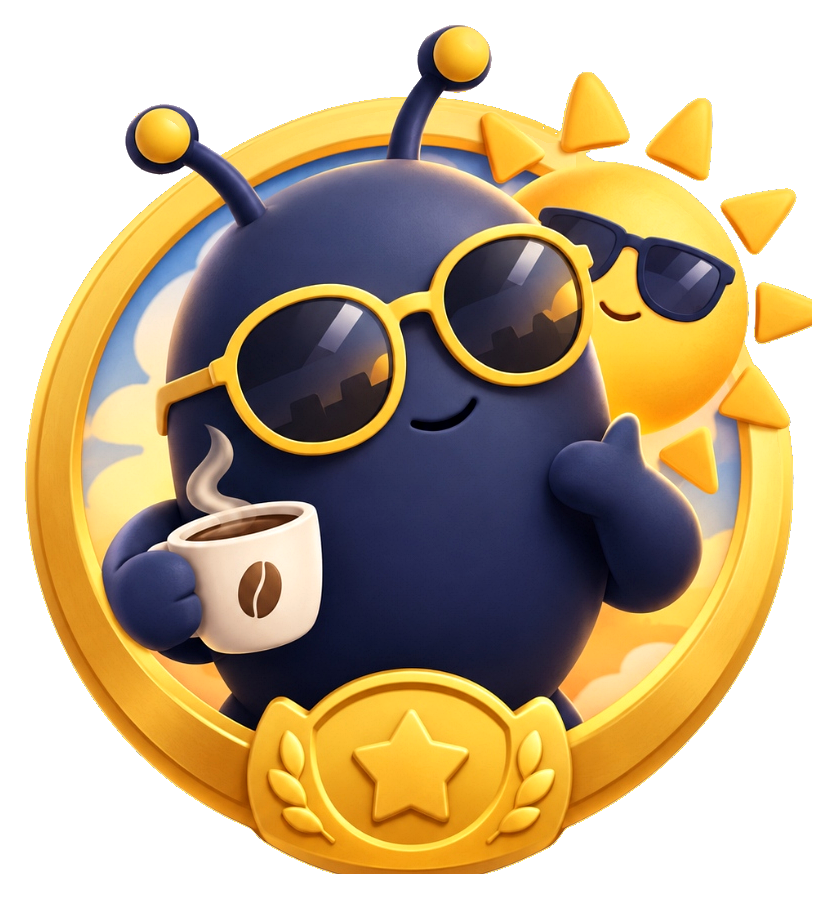
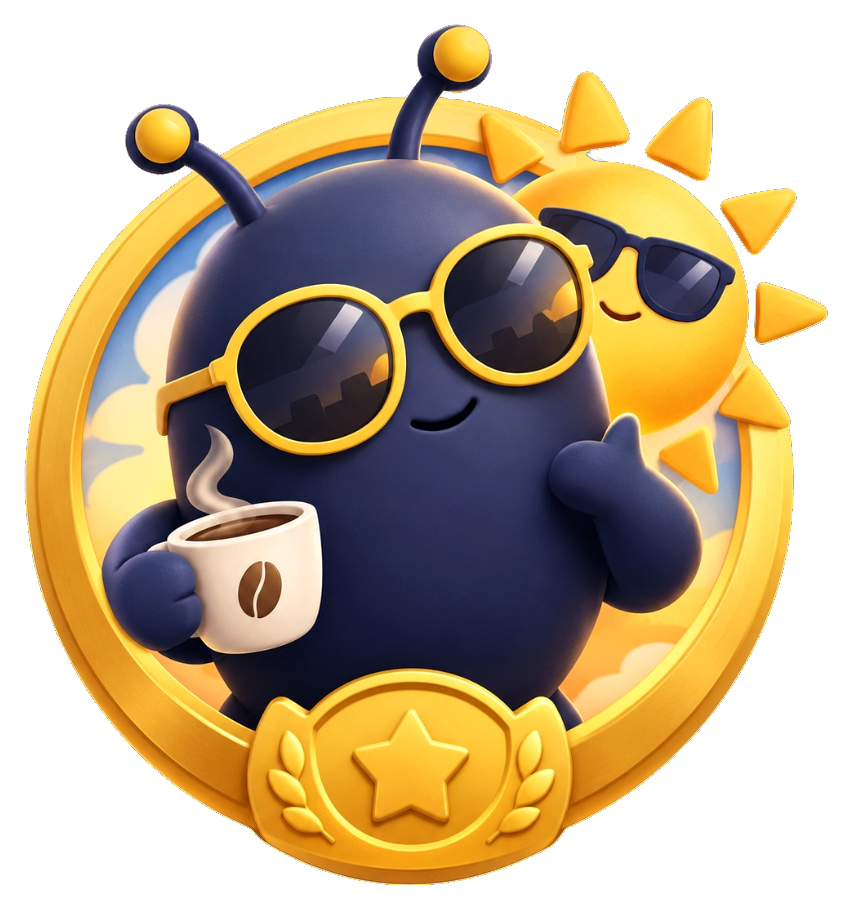
Fix Early Bird bottom clipping and prevent badge overlap on mobile

diff --git a/src/components/profile/ProfileHonors.tsx b/src/components/profile/ProfileHonors.tsx
@@ -57,10 +57,10 @@ export function ProfileHonors({
   } | null>(null);
 
   const customBadgeImages: Record<string, string> = {
-    early_bird: "/badges/early-bird.png?v=4",
-    night_owl: "/badges/night-owl.png?v=4",
-    sniper_coder: "/badges/sniper-coder.png?v=4",
-    speed_demon: "/badges/speed-demon.png?v=4",
+    early_bird: "/badges/early-bird.png?v=5",
+    night_owl: "/badges/night-owl.png?v=5",
+    sniper_coder: "/badges/sniper-coder.png?v=5",
+    speed_demon: "/badges/speed-demon.png?v=5",
   };
 
   const specialBadges: SpecialBadgeItem[] = [
@@ -78,7 +78,7 @@ export function ProfileHonors({
       accentBg: "from-amber-500/20 to-orange-500/10",
       iconSvg: (isUnlocked, size = 44) => (
         <img
-          src="/badges/early-bird.png?v=4"
+          src="/badges/early-bird.png?v=5"
           alt="Early Bird"
           style={{ width: size, height: size }}
           className={`object-contain transition-all ${isUnlocked ? "" : "grayscale opacity-50"}`}
@@ -99,7 +99,7 @@ export function ProfileHonors({
       accentBg: "from-purple-500/20 to-indigo-500/10",
       iconSvg: (isUnlocked, size = 44) => (
         <img
-          src="/badges/night-owl.png?v=4"
+          src="/badges/night-owl.png?v=5"
           alt="Night Owl"
           style={{ width: size, height: size }}
           className={`object-contain transition-all ${isUnlocked ? "" : "grayscale opacity-50"}`}
@@ -120,7 +120,7 @@ export function ProfileHonors({
       accentBg: "from-rose-500/20 to-red-500/10",
       iconSvg: (isUnlocked, size = 44) => (
         <img
-          src="/badges/sniper-coder.png?v=4"
+          src="/badges/sniper-coder.png?v=5"
           alt="Sniper Coder"
           style={{ width: size, height: size }}
           className={`object-contain transition-all ${isUnlocked ? "" : "grayscale opacity-50"}`}
@@ -141,7 +141,7 @@ export function ProfileHonors({
       accentBg: "from-cyan-500/20 to-blue-500/10",
       iconSvg: (isUnlocked, size = 44) => (
         <img
-          src="/badges/speed-demon.png?v=4"
+          src="/badges/speed-demon.png?v=5"
           alt="Speed Demon"
           style={{ width: size, height: size }}
           className={`object-contain transition-all ${isUnlocked ? "" : "grayscale opacity-50"}`}
@@ -370,7 +370,7 @@ export function ProfileHonors({
           </button>
         </div>
 
-        <div className="grid grid-cols-4 gap-3 sm:gap-5 items-center justify-items-center py-1">
+        <div className="grid grid-cols-4 gap-2 sm:gap-4 md:gap-5 items-center justify-items-center py-1">
           {previewBadges.map((badge) => {
             const isUnlocked = badge.current >= badge.target;
             const customImg = customBadgeImages[badge.id];
@@ -381,14 +381,14 @@ export function ProfileHonors({
                   soundEffects.playSoftClick();
                   setSelectedHonor({ type: "badge", item: badge });
                 }}
-                className="flex flex-col items-center justify-center cursor-pointer group"
+                className="flex flex-col items-center justify-center cursor-pointer group w-full"
                 title={`${badge.name} • ${isUnlocked ? "Unlocked" : "In Progress"}`}
               >
                 <div
                   className={`rounded-full flex items-center justify-center relative transition-transform group-hover:scale-105 ${
                     customImg
-                      ? "w-[115px] h-[115px] sm:w-[144px] sm:h-[144px]"
-                      : `w-[76px] h-[76px] sm:w-[86px] sm:h-[86px] border-4 ${
+                      ? "w-[72px] h-[72px] sm:w-[110px] sm:h-[110px] md:w-[130px] md:h-[130px]"
+                      : `w-[68px] h-[68px] sm:w-[86px] sm:h-[86px] border-4 ${
                           isUnlocked
                             ? `${badge.ringColor} bg-[#0b1426]`
                             : "border-slate-800 bg-slate-950/80 opacity-70"
@@ -399,12 +399,12 @@ export function ProfileHonors({
                     <img
                       src={customImg}
                       alt={badge.name}
-                      className={`w-[126px] h-[126px] sm:w-[154px] sm:h-[154px] max-w-none shrink-0 object-contain transition-all ${
+                      className={`w-full h-full object-contain transition-all ${
                         isUnlocked ? "" : "grayscale opacity-50"
                       }`}
                     />
                   ) : (
-                    badge.iconSvg(isUnlocked, 52)
+                    badge.iconSvg(isUnlocked, 48)
                   )}
                 </div>
               </div>
@@ -433,7 +433,7 @@ export function ProfileHonors({
           </button>
         </div>
 
-        <div className="grid grid-cols-4 gap-3 sm:gap-5 items-center justify-items-center py-1">
+        <div className="grid grid-cols-4 gap-2 sm:gap-4 md:gap-5 items-center justify-items-center py-1">
           {previewAchievements.map((ach) => {
             const isUnlocked = ach.current >= ach.target;
             return (
@@ -443,11 +443,11 @@ export function ProfileHonors({
                   soundEffects.playSoftClick();
                   setSelectedHonor({ type: "achievement", item: ach });
                 }}
-                className="flex flex-col items-center justify-center cursor-pointer group"
+                className="flex flex-col items-center justify-center cursor-pointer group w-full"
                 title={`${ach.name} • ${isUnlocked ? "Unlocked" : "In Progress"}`}
               >
                 <div
-                  className={`w-[76px] h-[84px] sm:w-[84px] sm:h-[92px] relative flex flex-col items-center justify-between pt-2 pb-1.5 transition-transform group-hover:scale-105 ${
+                  className={`w-[68px] h-[76px] sm:w-[84px] sm:h-[92px] relative flex flex-col items-center justify-between pt-2 pb-1.5 transition-transform group-hover:scale-105 ${
                     isUnlocked ? "opacity-100" : "opacity-65"
                   }`}
                 >
